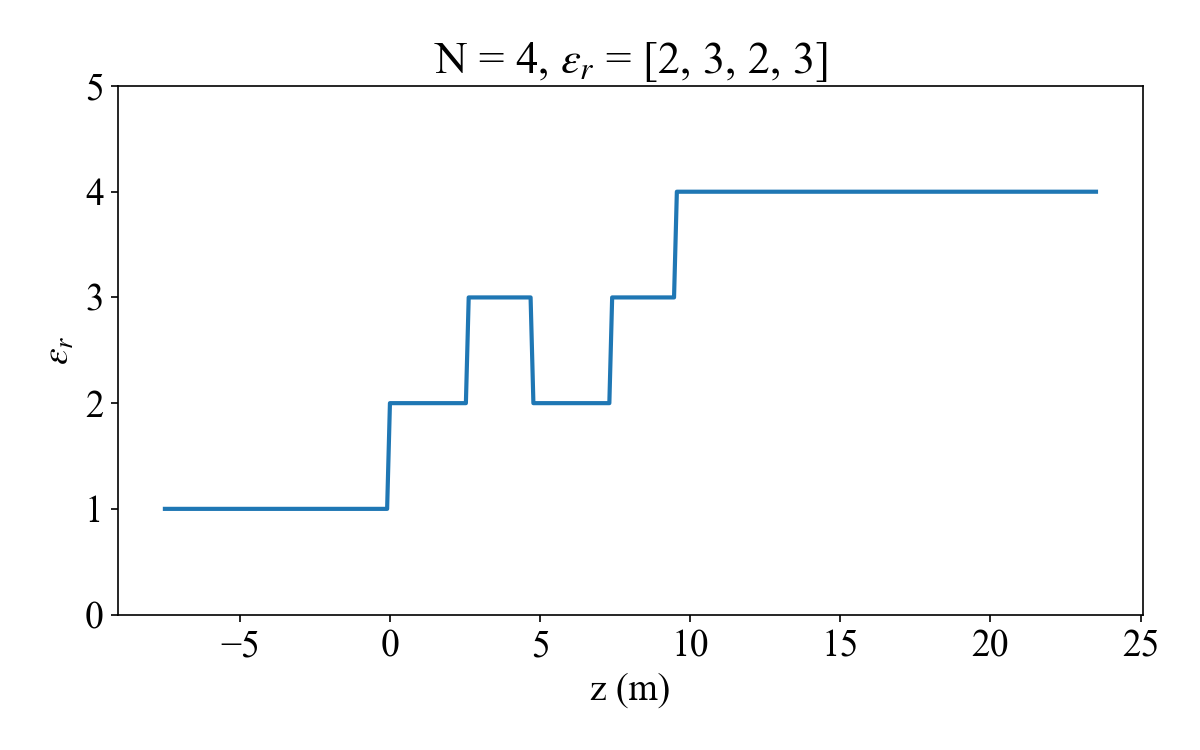
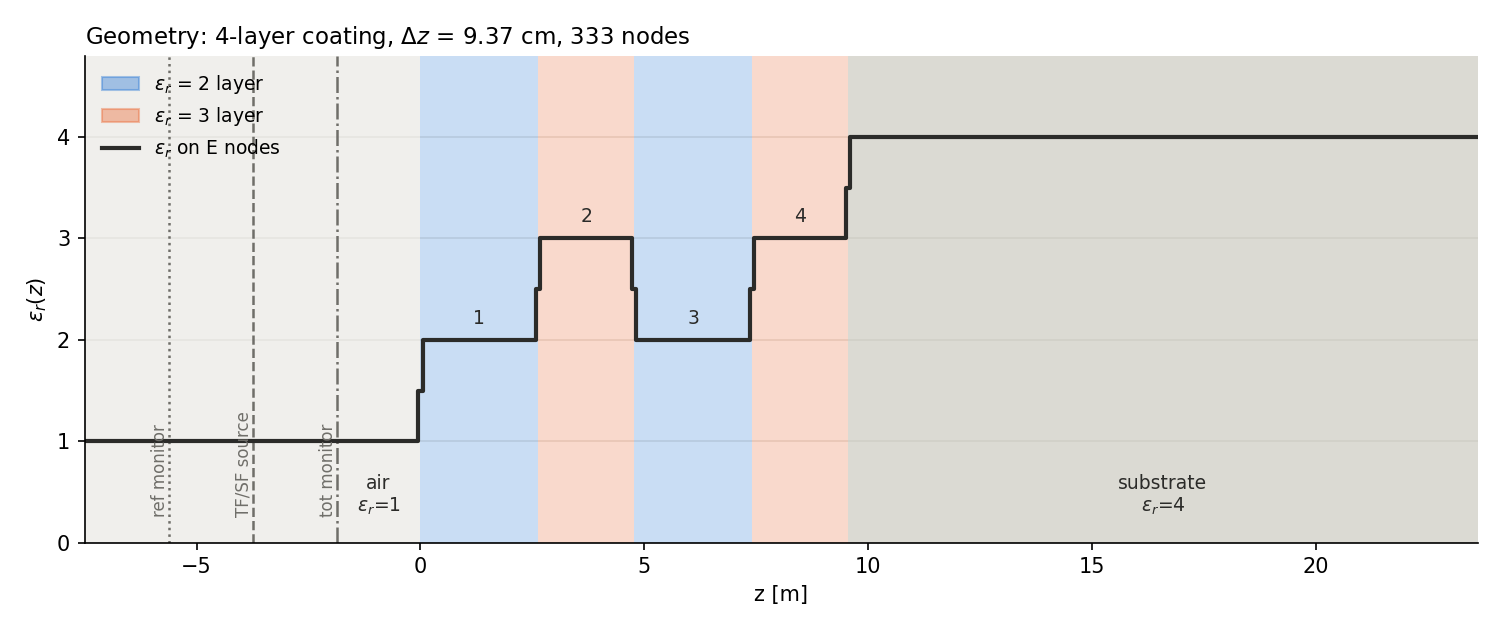
fdtd prop

diff --git a/main.py b/main.py
@@ -1,15 +1,22 @@
 """
-1D FDTD simulation of the multilayer coating.
+ * author Ohidul Islam
+ * created on 20-11-2026-23h-14m
+ * copyright 2026
+"""
+
+"""
+Anti-reflective coating at 20 MHz -- 1D FDTD.
 """
 
 import numpy as np
 import matplotlib.pyplot as plt
+from matplotlib.animation import FuncAnimation
+
+from fdtd import FDTD1D, C0
 
 plt.rcParams["font.family"] = "Times New Roman"
 plt.rcParams["mathtext.fontset"] = "stix"
 plt.rcParams["font.size"] = 18
-
-c = 299_792_458.0
 
 # ---------------- settings ----------------
 eps_i = 1.0
@@ -19,44 +26,101 @@ f_max = 40e6
 
 N = 4
 eps = [2, 3, 2, 3]
-d = [c / (4 * f0 * np.sqrt(e)) for e in eps]   # quarter-wave
+d = [C0 / (4 * f0 * np.sqrt(e)) for e in eps]   # quarter-wave
 
-ppw = 40              # cells per shortest wavelength
-S = 0.5               # Courant number
-n_air = 80            # air cells before the coating
-n_sub = 150           # substrate cells after the coating
+T_run = 2e-6                      
+f = np.linspace(0, f_max, 401)
 # ------------------------------------------
 
-# grid
-lam_min = c / (f_max * np.sqrt(max(eps + [eps_i, eps_s])))
-dz = lam_min / ppw
-dt = S * dz / c
+sim = FDTD1D(eps_i, eps_s, eps, d, f_max)
+print(f"dz = {sim.dz*100:.2f} cm, dt = {sim.dt*1e9:.4f} ns, nz = {sim.nz}, cells = {sim.cells}")
 
-cells = [round(dm / dz) for dm in d]          # layer thickness in cells
-nz = n_air + sum(cells) + n_sub
+b = np.cumsum([0] + sim.cells) * sim.dz       # layer boundaries on the grid
+colors = {2: "#2a78d6", 3: "#eb6834"}
 
-# relative permittivity on the grid
-eps_r = np.full(nz, eps_i)
-j = n_air
-for e, n in zip(eps, cells):
-    eps_r[j:j + n] = e
-    j += n
-eps_r[j:] = eps_s
 
-z = (np.arange(nz) - n_air) * dz              # z = 0 at the coating front
+def draw_regions(ax, label_y):
+    """Shade air, layers, substrate; mark the reflection monitor and source."""
+    ax.axvspan(sim.z[0], 0, color="#e6e5e0", alpha=0.6, lw=0)
+    for m in range(N):
+        ax.axvspan(b[m], b[m + 1], color=colors[eps[m]], alpha=0.25, lw=0)
+    ax.axvspan(b[-1], sim.z[-1], color="#c3c2b7", alpha=0.6, lw=0)
+    for j, label, ls in [(sim.j_ref, "ref monitor", ":"), (sim.j_src, "source", "--")]:
+        ax.axvline(sim.z[j], color="0.4", ls=ls, lw=1.2)
+        ax.text(sim.z[j], label_y, label, rotation=90, ha="right", va="bottom",
+                fontsize=11, color="0.4")
+    ax.set_xlim(sim.z[0], sim.z[-1])
 
-print(f"dz = {dz*100:.2f} cm, dt = {dt*1e9:.4f} ns, nz = {nz}")
+
+# geometry
+fig, ax = plt.subplots(figsize=(12, 5))
+draw_regions(ax, 0.25)
+ax.plot(sim.z, sim.eps_r, color="k", lw=2, drawstyle="steps-mid")
 for m in range(N):
-    print(f"layer {m+1}: eps = {eps[m]}, d = {d[m]:.4f} m -> {cells[m]} cells "
-          f"= {cells[m]*dz:.4f} m")
+    ax.text((b[m] + b[m + 1]) / 2, eps[m] + 0.12, f"{m+1}", ha="center", fontsize=14)
+ax.text(sim.z[sim.j_src] / 2, 0.25, f"air\n$\\epsilon_r$={eps_i:g}", ha="center", fontsize=14)
+ax.text((b[-1] + sim.z[-1]) / 2, 0.25, f"substrate\n$\\epsilon_r$={eps_s:g}", ha="center", fontsize=14)
+ax.plot([], [], color=colors[2], alpha=0.4, lw=10, label=r"$\epsilon_r$ = 2 layer")
+ax.plot([], [], color=colors[3], alpha=0.4, lw=10, label=r"$\epsilon_r$ = 3 layer")
+ax.set_ylim(0, eps_s + 0.8)
+ax.set_xlabel("z (m)")
+ax.set_ylabel(r"$\epsilon_r(z)$")
+ax.legend(loc="upper left", frameon=False, fontsize=14)
+fig.tight_layout()
+fig.savefig("figs/geometry.png", dpi=150)
 
-# plot
-plt.figure(figsize=(8, 5))
-plt.plot(z, eps_r, lw=2)
-plt.xlabel("z (m)")
-plt.ylabel(r"$\epsilon_r$")
-plt.title(f"N = {N}")
-plt.ylim(0, eps_s + 1)
+# snapshots
+times = np.linspace(90e-9, 255e-9, 5)
+fig, axes = plt.subplots(len(times), 1, figsize=(12, 12), sharex=True)
+for ax, ts in zip(axes, times):
+    while sim.n * sim.dt < ts:
+        sim.step()
+    draw_regions(ax, -1.5)
+    ax.plot(sim.z, sim.Ex, color="k", lw=1.8)
+    ax.set_ylim(-1.6, 1.6)
+    ax.set_ylabel(r"$E_x$")
+    ax.text(0.99, 0.92, f"t = {sim.n * sim.dt * 1e9:.1f} ns", transform=ax.transAxes,
+            ha="right", va="top", fontsize=14)
+axes[-1].set_xlabel("z (m)")
+fig.tight_layout()
+fig.savefig("figs/snapshots.png", dpi=150)
+sim.reset()
+
+# reflection
+t, E_ref, E_inc = sim.run(int(T_run / sim.dt))
+gamma = sim.reflection(t, E_ref, E_inc, f)
+G0 = sim.reflection(t, E_ref, E_inc, np.array([f0]))[0]
+Gamma_bare = (np.sqrt(eps_i) - np.sqrt(eps_s)) / (np.sqrt(eps_i) + np.sqrt(eps_s))
+print(f"|Gamma(f0)| = {abs(G0):.4f}, |Gamma(f0)|^2 = {100 * abs(G0)**2:.3f} %")
+
+plt.figure(figsize=(8, 6))
+plt.plot(f / 1e6, np.abs(gamma)**2, lw=2, label="with coating")
+plt.plot(f / 1e6, np.full_like(f, Gamma_bare**2), "--", lw=2, label="without coating")
+plt.plot(f0 / 1e6, abs(G0)**2, "o")
+plt.xlabel("Frequency (MHz)")
+plt.ylabel(r"$|\Gamma_{in}|^2$")
+plt.title(f"FDTD, N = {N}")
+plt.legend()
 plt.tight_layout()
-plt.savefig("figs/geometry.png", dpi=150)
+plt.savefig("figs/gamma_fdtd.png", dpi=150)
+
+# animation
+sim.reset()
+fig, ax = plt.subplots(figsize=(10, 5))
+ax.plot(sim.z, sim.eps_r / eps_s, color="0.7")
+line, = ax.plot(sim.z, sim.Ex, lw=2)
+ax.set_ylim(-1.2, 1.2)
+ax.set_xlabel("z (m)")
+ax.set_ylabel(r"$E_x$")
+
+
+def update(_):
+    for _ in range(10):
+        sim.step()
+    line.set_ydata(sim.Ex)
+    ax.set_title(f"t = {sim.n * sim.dt * 1e9:.0f} ns")
+    return line,
+
+
+anim = FuncAnimation(fig, update, frames=int(300e-9 / sim.dt) // 10, interval=20, repeat=False)
 plt.show()

diff --git a/fdtd.py b/fdtd.py
@@ -1,0 +1,97 @@
+"""
+ * author Ohidul Islam
+ * created on 20-11-2026-23h-14m
+ * copyright 2026
+"""
+
+
+import numpy as np
+
+C0 = 299_792_458.0
+MU0 = 4e-7 * np.pi
+EPS0 = 1 / (MU0 * C0**2)
+
+
+class FDTD1D:
+    def __init__(self, eps_i, eps_s, eps, d, f_max, ppw=40, S=0.5, gap=20, n_sub=150):
+        self.eps_i = eps_i
+
+        # grid
+        self.dz = C0 / (f_max * np.sqrt(max(eps + [eps_i, eps_s]))) / ppw
+        self.dt = S * self.dz / C0
+        self.cells = [max(1, round(dm / self.dz)) for dm in d]
+
+        self.j_ref = gap                       # reflection monitor
+        self.j_src = 2 * gap                   
+        
+        self.j0 = 4 * gap                      # coating front (z = 0)
+        j_b = self.j0 + np.cumsum([0] + self.cells)      # interfaces
+        self.nz = j_b[-1] + n_sub
+        self.z = (np.arange(self.nz) - self.j0) * self.dz
+
+        # eps_r on the grid (interface nodes get the average)
+        self.eps_r = np.full(self.nz, float(eps_i))
+        for m, e in enumerate(eps):
+            self.eps_r[j_b[m]:j_b[m + 1]] = e
+        self.eps_r[j_b[-1]:] = eps_s
+        sides = self.eps_r.copy()
+        self.eps_r[j_b] = 0.5 * (sides[j_b - 1] + sides[j_b])
+
+        # update and Mur coefficients
+        self.ch = self.dt / (MU0 * self.dz)
+        self.ce = self.dt / (EPS0 * self.eps_r * self.dz)
+        self.ce_i = self.dt / (EPS0 * eps_i * self.dz)
+        mur = lambda e: (C0 / np.sqrt(e) * self.dt - self.dz) / (C0 / np.sqrt(e) * self.dt + self.dz)
+        self.kL, self.kR = mur(eps_i), mur(eps_s)
+
+        # Gaussian pulse, spectrum down to 1% at f_max
+        self.tau = np.sqrt(np.log(100)) / (np.pi * f_max)
+        self.t0 = 5 * self.tau
+
+        self.reset()
+
+    def reset(self):
+        self.Ex, self.Hy = np.zeros(self.nz), np.zeros(self.nz - 1)
+        self.Ei, self.Hi = np.zeros(self.nz), np.zeros(self.nz - 1)   # incident-only grid
+        self.n = 0
+
+    def source(self, t):
+        return np.exp(-((t - self.t0) / self.tau) ** 2)
+
+    def step(self):
+        js = self.j_src
+        E1, Em, Ei1 = self.Ex[1], self.Ex[-2], self.Ei[-2]
+        Ei_src = self.Ei[js]
+
+        # H update 
+        self.Hy -= self.ch * (self.Ex[1:] - self.Ex[:-1])
+        self.Hi -= self.ch * (self.Ei[1:] - self.Ei[:-1])
+        self.Hy[js - 1] += self.ch * Ei_src
+
+        # E update 
+        self.Ex[1:-1] -= self.ce[1:-1] * (self.Hy[1:] - self.Hy[:-1])
+        self.Ex[js] += self.ce[js] * self.Hi[js - 1]
+        self.Ei[1:-1] -= self.ce_i * (self.Hi[1:] - self.Hi[:-1])
+        self.Ei[0] = self.source((self.n + 1) * self.dt)
+
+        # Mur boundaries
+        self.Ex[0] = E1 + self.kL * (self.Ex[1] - self.Ex[0])
+        self.Ex[-1] = Em + self.kR * (self.Ex[-2] - self.Ex[-1])
+        self.Ei[-1] = Ei1 + self.kL * (self.Ei[-2] - self.Ei[-1])
+        self.n += 1
+
+    def run(self, n_steps):
+        """Record reflected and incident field at the reflection monitor."""
+        t, E_ref, E_inc = np.empty(n_steps), np.empty(n_steps), np.empty(n_steps)
+        for k in range(n_steps):
+            self.step()
+            t[k] = self.n * self.dt
+            E_ref[k] = self.Ex[self.j_ref]
+            E_inc[k] = self.Ei[self.j_ref]
+        return t, E_ref, E_inc
+
+    def reflection(self, t, E_ref, E_inc, f):
+        """Gamma(f) at z = 0 from the DFT of the recorded fields."""
+        kernel = np.exp(-2j * np.pi * np.outer(f, t))
+        beta = 2 * np.pi * f * np.sqrt(self.eps_i) / C0
+        return (kernel @ E_ref) / (kernel @ E_inc) * np.exp(-2j * beta * self.z[self.j_ref])
